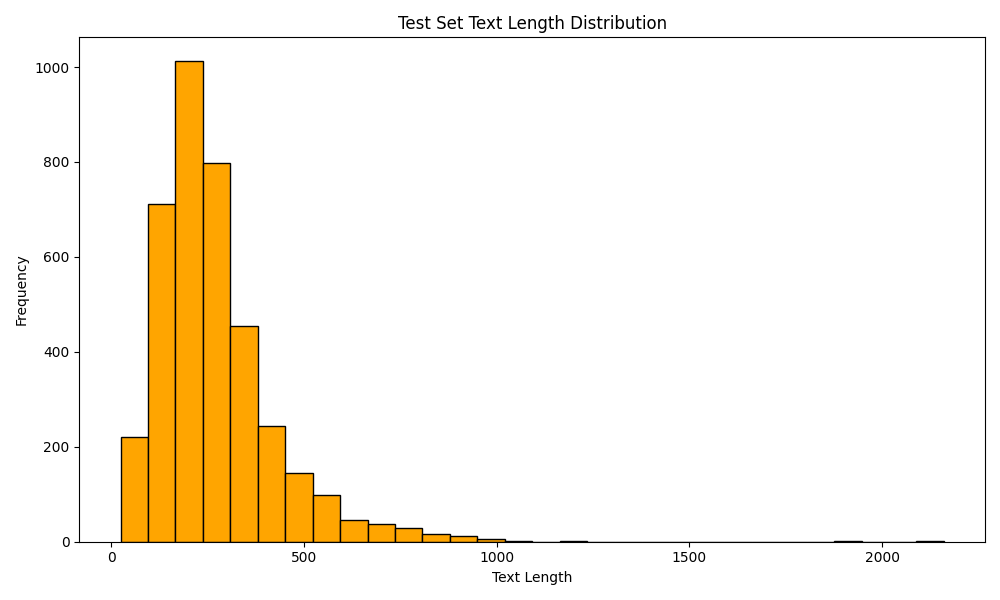
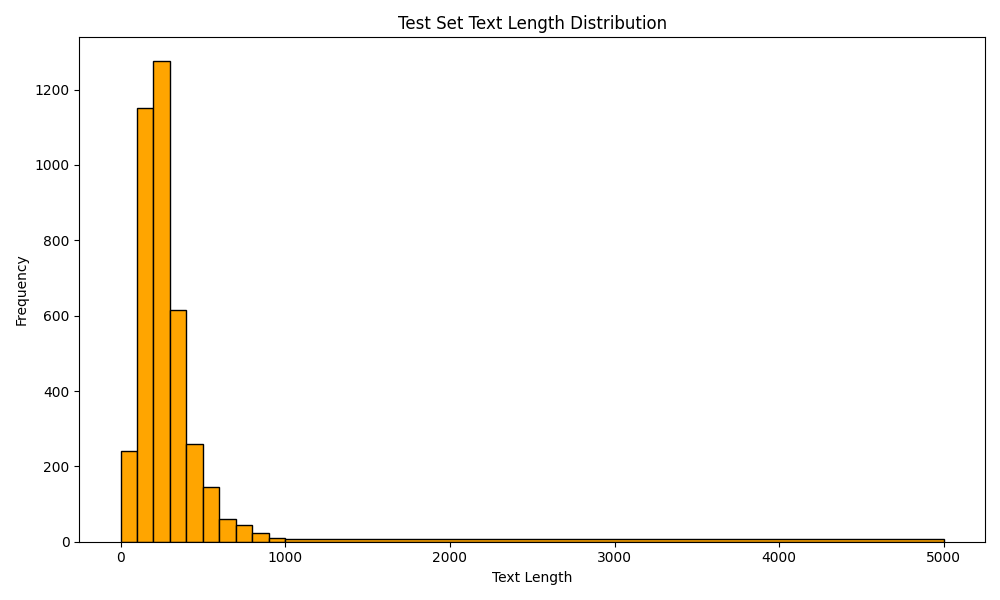
Improved text length analysis

diff --git a/data_analysis.py b/data_analysis.py
@@ -4,8 +4,6 @@ import pandas as pd
 import csv, math
 import config, utils
 
-sections = ["train", "test"]
-
 def draw_plot(title, xlabel, ylabel, path):
   plt.title(title)
   plt.xlabel(xlabel)
@@ -17,10 +15,9 @@ def draw_plot(title, xlabel, ylabel, path):
 def text_length(data, section):
    # Bar graph (histogram) of text length distribution
   plt.figure(figsize=(10, 6))
-  # Identify any rows in "text" column where the data is of float type
-  float_data = data[data["text"].apply(lambda x: isinstance(x, float))]
   data["text_length"] = data["text"].apply(len)
-  plt.hist(data["text_length"], bins=30, color="orange", edgecolor="black")
+  bins = [0, 100, 200, 300, 400, 500, 600, 700, 800, 900, 1000, 5000]
+  plt.hist(data["text_length"], bins=bins, color="orange", edgecolor="black")
   draw_plot(f"{section.capitalize()} Set Text Length Distribution",
             "Text Length", "Frequency", f"images/text_length_distribution_{section}.png")
 
@@ -195,6 +192,7 @@ def visualize_embedding(data):
     print(kw, model.embeddings(sentence))
 
 if __name__ == "__main__":
+  sections = ["train", "test"]
   train_data = utils.read_train_data()
   test_data = utils.read_test_data()
 
